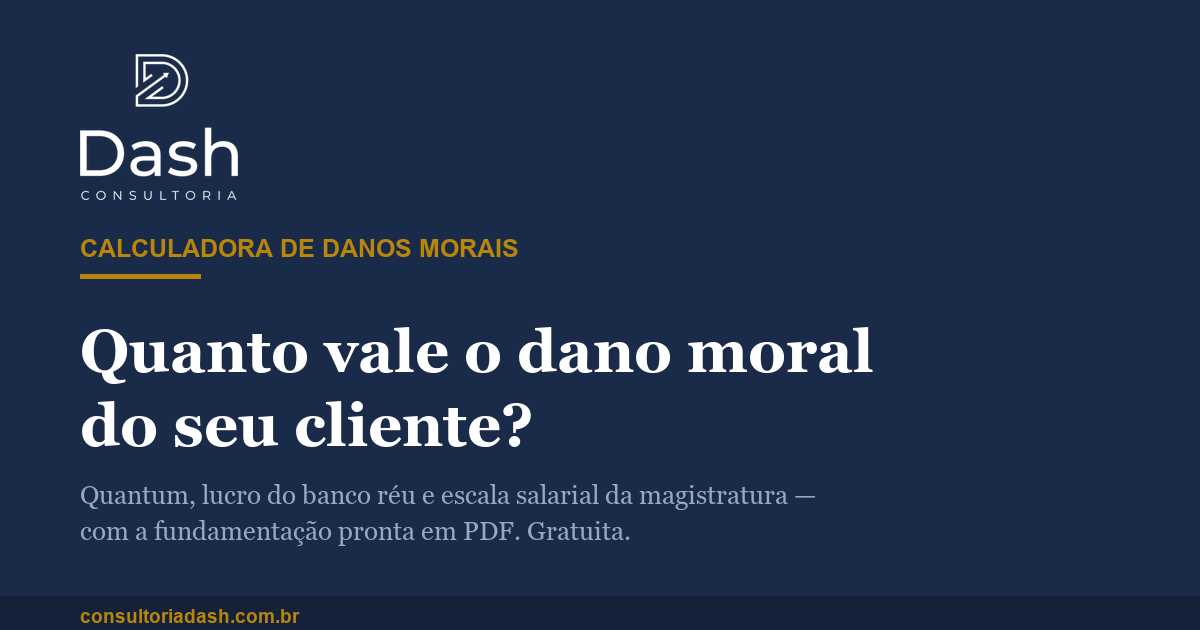
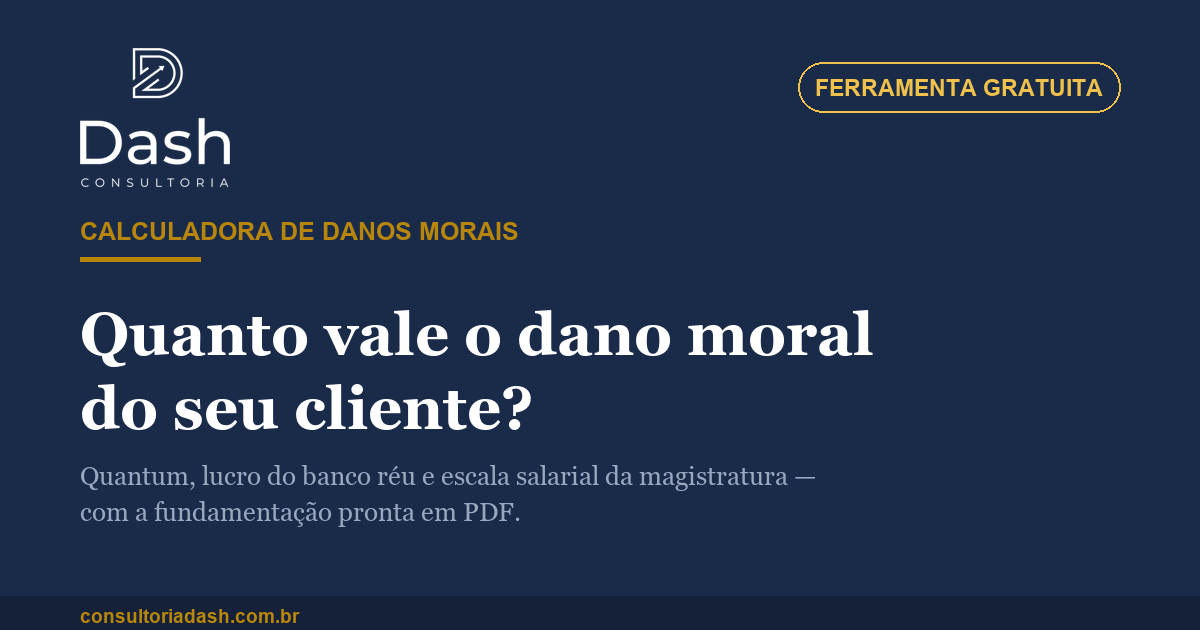
feat: selo FERRAMENTA GRATUITA
Em tres lugares: o cartao de entrada (dentro da faixa navy, logo abaixo do
fio), o cabecalho da calculadora e o cartao de compartilhamento.

O terceiro e' o que mais importa: o cartao e' a primeira impressao de quem
recebe o link no WhatsApp, e a gratuidade e' justamente o que decide se a
pessoa clica. La' o selo fica no canto oposto ao logo, lido junto com a marca
sem disputar com o titulo.

Contorno dourado com texto dourado sobre navy, nunca bloco de ouro preenchido
-- a regra da marca e' que o ouro e' sempre fio.

No celular o selo do CABECALHO some: ali o espaco e' do nome do produto, e
selo espremido vira ruido. O do cartao de entrada continua, que e' onde a
pessoa decide se preenche o e-mail.

Changed region(s): [[0.0617, 0.4825, 0.74, 0.8746], [0.0617, 0.0603, 0.4317, 0.4524], [0.6783, 0.0905, 0.925, 0.181]]

diff --git a/index.html b/index.html
@@ -244,6 +244,13 @@
                   font-family:inherit; cursor:pointer; }
   .optin button.sim { background:var(--navy); color:#fff; border-color:var(--navy); font-weight:700; }
   .optin button:hover { opacity:.85; }
+  .selo-gratis { display:inline-block; font-size:11.5px; font-weight:700;
+                 letter-spacing:.15em; text-transform:uppercase; color:#f0c14b;
+                 border:1.5px solid rgba(240,193,75,.55); border-radius:20px;
+                 padding:5px 14px; }
+  .dash-hdr .selo-gratis { font-size:10px; letter-spacing:.12em; padding:3px 10px;
+                           margin-left:auto; flex:none; }
+  @media (max-width:620px){ .dash-hdr .selo-gratis { display:none; } }
 </style>
 </head>
 <body>
@@ -256,6 +263,7 @@
         <h1>Calculadora de Danos Morais</h1>
         <p>Crédito Consignado &nbsp;·&nbsp; Fundamentação Jurídica</p>
         <div class="linha"></div>
+        <div style="margin-top:15px"><span class="selo-gratis">Ferramenta gratuita</span></div>
       </div>
     </div>
     <div class="cad-corpo">
@@ -405,6 +413,7 @@
     <b>DASH <span>Calculadora de Danos Morais</span></b>
     <small>Dash Consultoria · Crédito consignado</small>
   </div>
+  <span class="selo-gratis">Ferramenta gratuita</span>
 </header>
 <div class="container">
 
